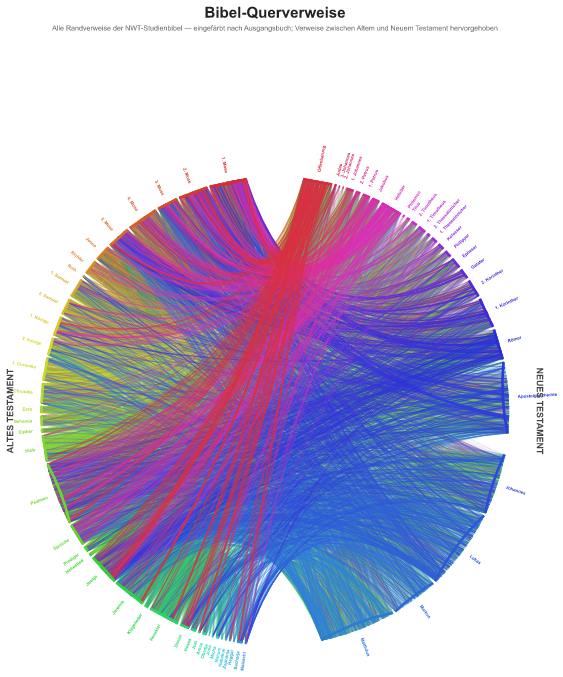
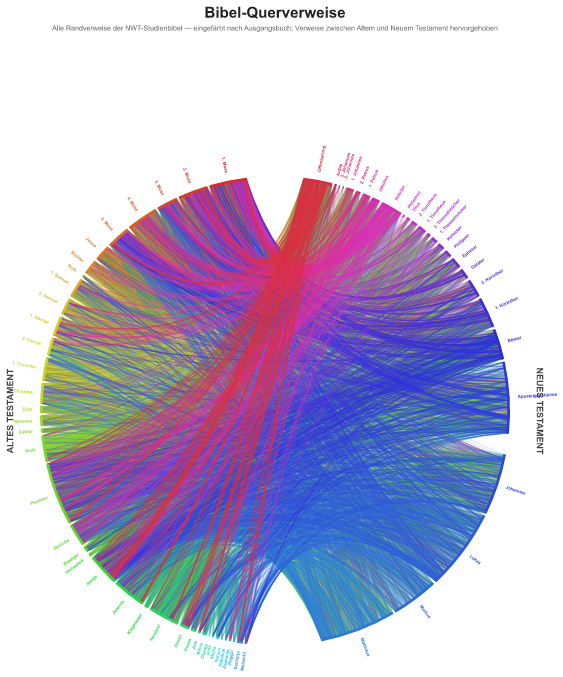
fix: draw book rim arcs on the correct side of the ring
The SVG arc sweep-flag selected the mirror-centred circle, so each book's coloured rim bowed outward instead of following the ring. Use sweep-flag 0 (the origin-centred arc, after the y-negation). Regenerated the README preview.

diff --git a/src/render.rs b/src/render.rs
@@ -111,9 +111,11 @@ pub fn build_svg(bible: &Bible, draw_text: bool) -> String {
     for b in &bible.books {
         let (x0, y0) = (r * b.a0.to_radians().cos(), r * b.a0.to_radians().sin());
         let (x1, y1) = (r * b.a1.to_radians().cos(), r * b.a1.to_radians().sin());
+        // sweep-flag 0: after the y-negation, this is the arc centred on the
+        // origin (sweep 1 picks the mirror-centred circle and bows the wrong way).
         let _ = write!(
             s,
-            r##"<path d="M{:.4},{:.4} A{:.4},{:.4} 0 0 1 {:.4},{:.4}" fill="none" stroke="{}" stroke-width="{:.5}"/>"##,
+            r##"<path d="M{:.4},{:.4} A{:.4},{:.4} 0 0 0 {:.4},{:.4}" fill="none" stroke="{}" stroke-width="{:.5}"/>"##,
             x0, -y0, r, r, x1, -y1, colors[b.idx], RIM_W
         );
     }